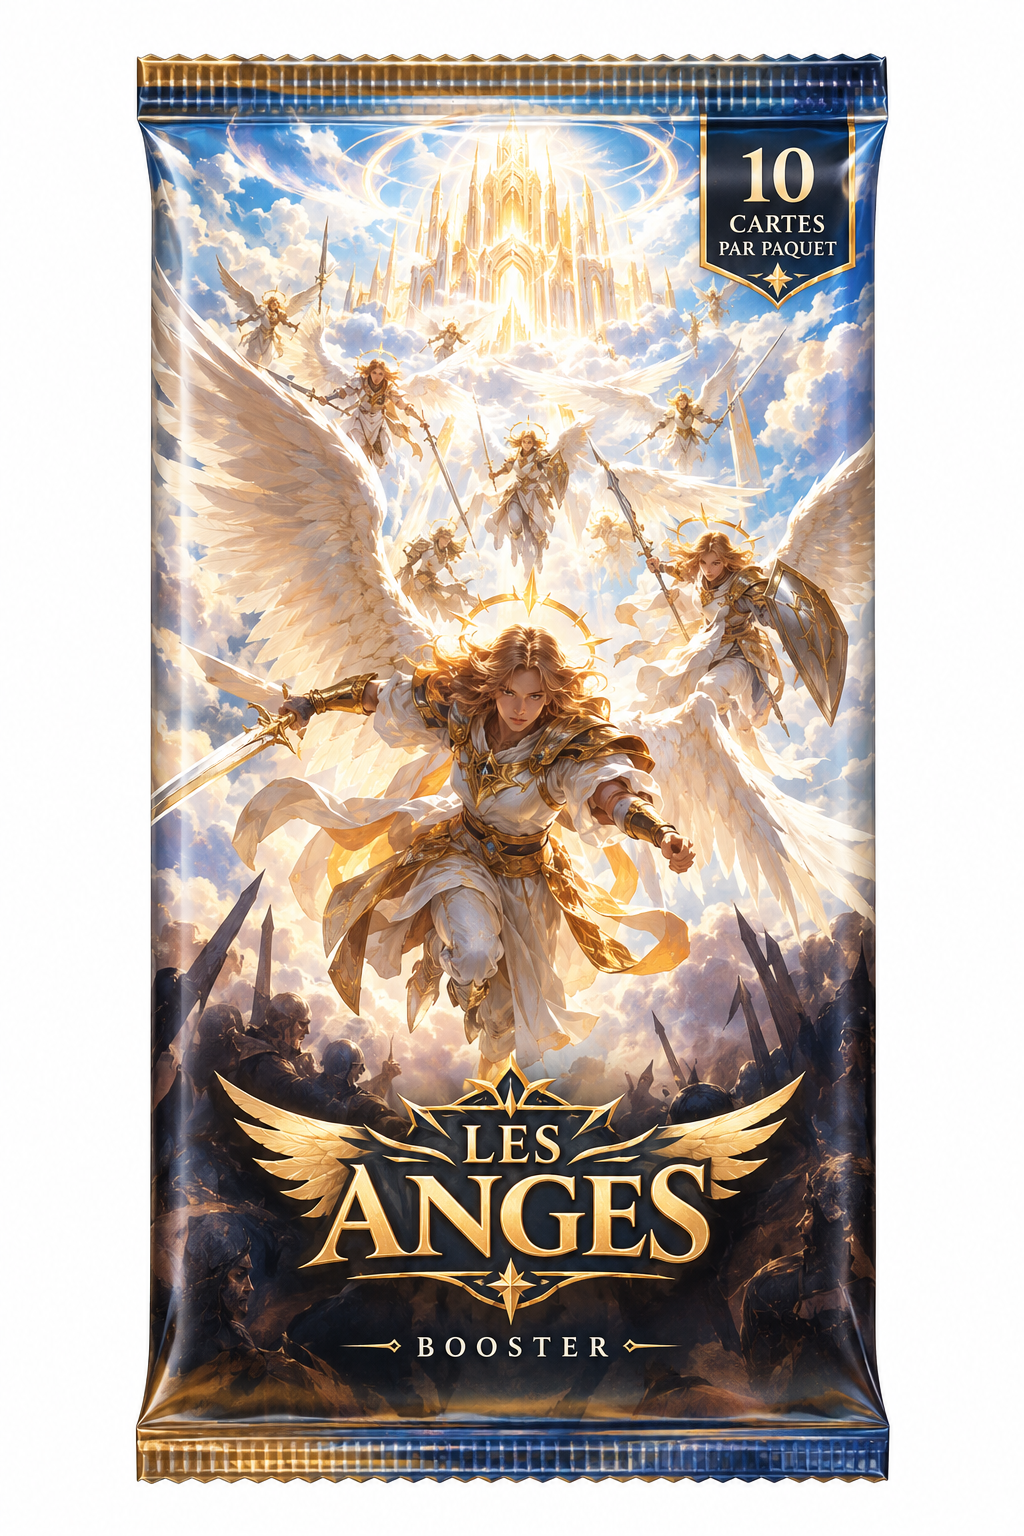
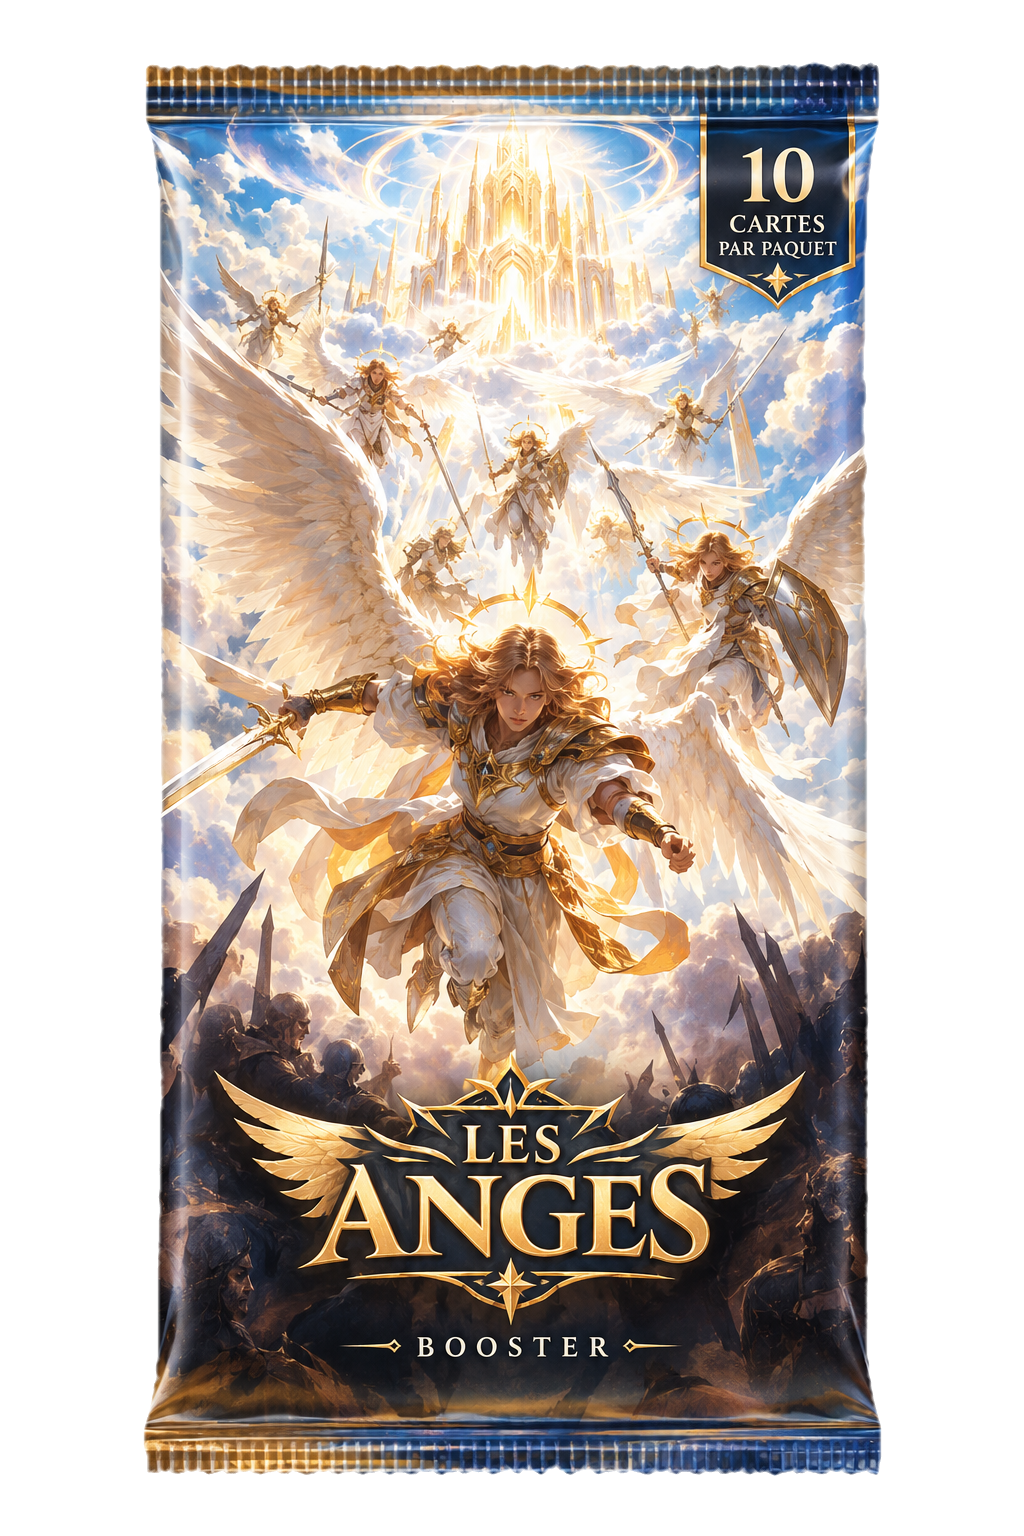
avancement page details

Changed region(s): [[0.125, 0.0312, 0.875, 0.9688]]

diff --git a/src/components/general/Specs.jsx b/src/components/general/Specs.jsx
@@ -1,0 +1,49 @@
+import { getRarity, getSerie } from '../../utils/helpers'
+
+import '../../css/specs.css'
+
+function Specs({ card }) {
+
+    if (!card) {
+        return <div className='specs-container'>Chargement...</div>;
+    }
+
+    return (
+        <div>
+            <div className='specs-container'>
+                <h2 className='title'>{card.nom}</h2>
+
+                <div className='stat'>
+                    <span className='stat-label'>Attaque : </span>
+                    <span className='stat-value'>{card.attaque}</span>
+                </div>
+
+                <div className='stat'>
+                    <span className='stat-label'>Défense :</span>
+                    <span className='stat-value'>{card.defense}</span>
+                </div>
+
+                <div className='stat'>
+                    <span className='stat-label'>Série :</span>
+                    <span className='stat-value'>{getSerie(card.id_serie)}</span>
+                </div>
+
+                <div className='stat'>
+                    <span className='stat-label'>Rareté :</span>
+                    <span className={`stat-value text-rarity-${card.id_rarete}`}>
+                        {getRarity(card.id_rarete)}
+                    </span>
+                </div>
+
+                <div className='stat'>
+                    <span className='stat-label'>Quantité possédée :</span>
+                    <span className='stat-value'>{card.quantite ?? 0}</span>
+                </div>
+
+                {card.quantite > 0 && <button className='button-sell'>Vendre</button>}
+            </div>
+        </div>
+    );
+}
+
+export default Specs

diff --git a/src/css/specs.css b/src/css/specs.css
@@ -1,0 +1,78 @@
+.specs-container {
+    display: flex;
+    flex-direction: column;
+    gap: 16px;
+    align-items: flex-start;
+}
+
+.title {
+    font-size: 2.7em;
+    font-weight: bolder;
+}
+
+.stat {
+    display: flex;
+    align-items: center;
+    gap: 8px;
+    background-color: #202020;
+    color: var(--color-white);
+    padding: 8px 16px;
+    border-radius: 8px;
+    font-size: 1.3em;
+    box-shadow: 0 5px 10px rgba(0, 0, 0, 0.2);
+    transition: transform 0.10s ease;
+}
+
+.stat:hover {
+    transform: translateX(2px);
+}
+
+.stat-label {
+    color: #a0a0b0;
+}
+
+.stat-value {
+    color: #ffffff;
+}
+
+.button-sell {
+    max-width: 120px;
+    background-color: #4b4b4b;
+    color: var(--color-white);
+    border: 2px solid #272727;
+    border-radius: 8px;
+    padding: 12px;
+    font-size: 1.1rem;
+    font-weight: 600;
+    cursor: pointer;
+    margin-top: 5px;
+}
+
+.button-sell:hover {
+    background-color: #777777;
+}
+
+/* rarete 1 (commune): vert */
+.text-rarity-1 {
+    color: #259b29;
+}
+
+/* rarete 2 (rare): bleu */
+.text-rarity-2 {
+    color: #2e62d4;
+}
+
+/* rarete 3 (epique): mauve */
+.text-rarity-3 {
+    color: #7f46bb;
+}
+
+/* rarete 4 (legendaire): rouge */
+.text-rarity-4 {
+    color: #e73026;
+}
+
+/* rarete 5 (mythique): jaune */
+.text-rarity-5 {
+    color: #d6b80a;
+}

diff --git a/src/pages/Details.jsx b/src/pages/Details.jsx
@@ -1,7 +1,8 @@
 import { useState, useEffect } from 'react';
-import { useParams, Link } from 'react-router-dom';
+import { useParams } from 'react-router-dom';
 
 import Card from '../components/general/Card';
+import Specs from '../components/general/Specs';
 
 import '../css/details.css';
 import '../css/cards.css';
@@ -13,7 +14,8 @@ function Details() {
   const [error, setError] = useState(null);
 
   useEffect(() => {
-    fetch(`http://localhost:5000/api/inventory/details/${id}`)
+    fetch(`http://localhost:5000/api/inventory/details/${id}`, {
+    })
       .then((response) => {
         if (!response.ok) {
           throw new Error('Erreur lors de la récupération des détails');
@@ -43,12 +45,7 @@ function Details() {
       </div>
 
       <div className='details-right'>
-        <h2>{card.nom}</h2>
-        <p><strong>Attaque :</strong> {card.attaque}</p>
-        <p><strong>Défense :</strong> {card.defense}</p>
-        <p><strong>Série :</strong> {card.id_serie}</p>
-        <p><strong>Rareté :</strong> {card.id_rarete}</p>
-        <p><strong>Quantité :</strong> {card.quantite}</p>
+        <Specs card={card}/>
       </div>
     </div>
   );

diff --git a/src/components/general/Header.jsx b/src/components/general/Header.jsx
@@ -44,7 +44,8 @@ function Header() {
                                 <NavLink to="/admin">ADMIN</NavLink>
                             )}
 
-                            <div className='navlink-right username'>{player.alias}</div>
+                            <div className='navlink-right username'>Monnaie: {player.nbPiece} $</div>
+                            <div>{player.alias}</div>
                             <button
                                 className='button-logout-icon'
                                 onClick={handleLogout}
@@ -52,7 +53,7 @@ function Header() {
                             >
                                 <FiLogOut size={18} />
                             </button>
-                            <div>Monnaie: 500$</div>
+                            
                         </>
                     )}
                 </nav>

diff --git a/src/utils/helpers.js b/src/utils/helpers.js
@@ -1,0 +1,31 @@
+export const getRarity = (id_rarete) => {
+    switch (id_rarete) {
+        case 1:
+            return 'Commune';
+        case 2:
+            return 'Rare';
+        case 3:
+            return 'Épique';
+        case 4:
+            return 'Légendaire';
+        case 5:
+            return 'Mythique';
+        default:
+            return 'Inconnue';
+    }
+}
+
+export const getSerie = (id_serie) => {
+    switch (id_serie) {
+        case 1:
+            return 'Anges';
+        case 2:
+            return 'Dragons';
+        case 3:
+            return 'Zombies';
+        case 4:
+            return 'Goblin';
+        default:
+            return 'Inconnue';
+    }
+}

diff --git a/src/css/cards.css b/src/css/cards.css
@@ -1,7 +1,7 @@
 
 .card {
     width: 100%;
-    max-width: 320px; 
+    max-width: 420px; 
     display: block;
     border-radius: 12px; 
     transition: box-shadow 0.3s ease, transform 0.3s ease;
@@ -42,6 +42,3 @@
                 0 0 50px rgba(255, 160, 0, 0.75);
 }
 
-.card:hover {
-    transform: scale(1.02);
-}

diff --git a/src/css/inventory.css b/src/css/inventory.css
@@ -5,7 +5,6 @@
 }
 
 .card {
-    width: 250px;
     margin: 1em;
     transition: transform 0.15s ease-out;
         
@@ -19,7 +18,7 @@
 
 .card img {
     width: 100%;
-    aspect-ratio: 5 / 7;
-    border-radius: 5px;
+    max-width: 320px;
+    border-radius: 12px;
     border: 3px solid black;
 }

diff --git a/src/css/details.css b/src/css/details.css
@@ -1,14 +1,11 @@
 .details-container {
     display: flex;
-    gap: 50px;
+    gap: 0px;
     padding: 20px;
 }
 
 .details-left {
     flex: 1;
-}
-
-.details-left {
     max-width: 100%;
     height: auto;
 }
